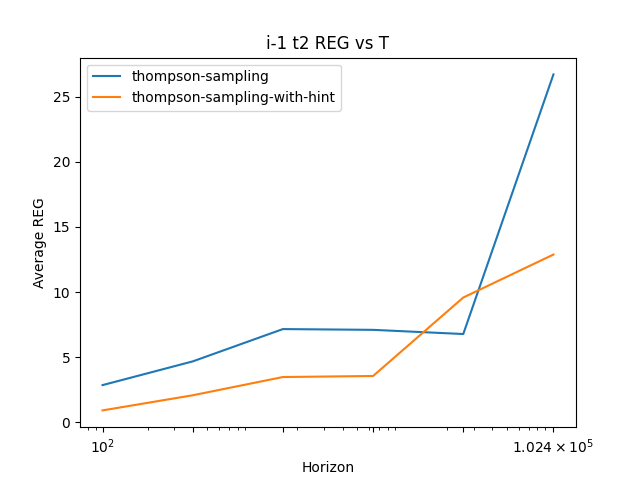
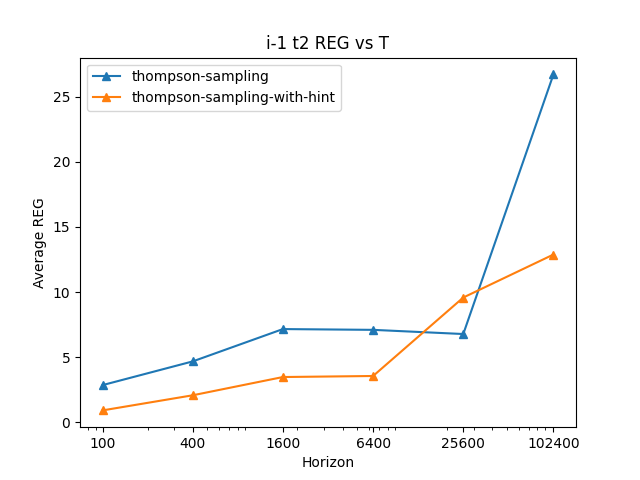
submission ready files

diff --git a/cs747-pa1/submission/gen_plots.py b/cs747-pa1/submission/gen_plots.py
@@ -5,11 +5,11 @@ def save_plot(values, title, instance_name, xtitle, ytitle, horizon=[100, 400, 1
 
     for algo_name in values.keys():
         print(algo_name, values[algo_name])
-        plt.plot(horizon, values[algo_name],  label=algo_name)
+        plt.plot(horizon, values[algo_name],  label=algo_name, marker='^')
 
     plt.xscale("log")
     plt.legend()
-    plt.xticks(horizon)
+    plt.xticks(horizon, horizon)
     plt.title('{} {} REG vs T'.format(instance_name, title))
 
     plt.xlabel(xtitle)

diff --git a/cs747-pa1/submission/generate_output.py b/cs747-pa1/submission/generate_output.py
@@ -35,6 +35,7 @@ def perform_task1():
 
 
 if __name__ == '__main__':
+    exit()
     args = parser.parse_args()
     experiment_name = args.exp
 
